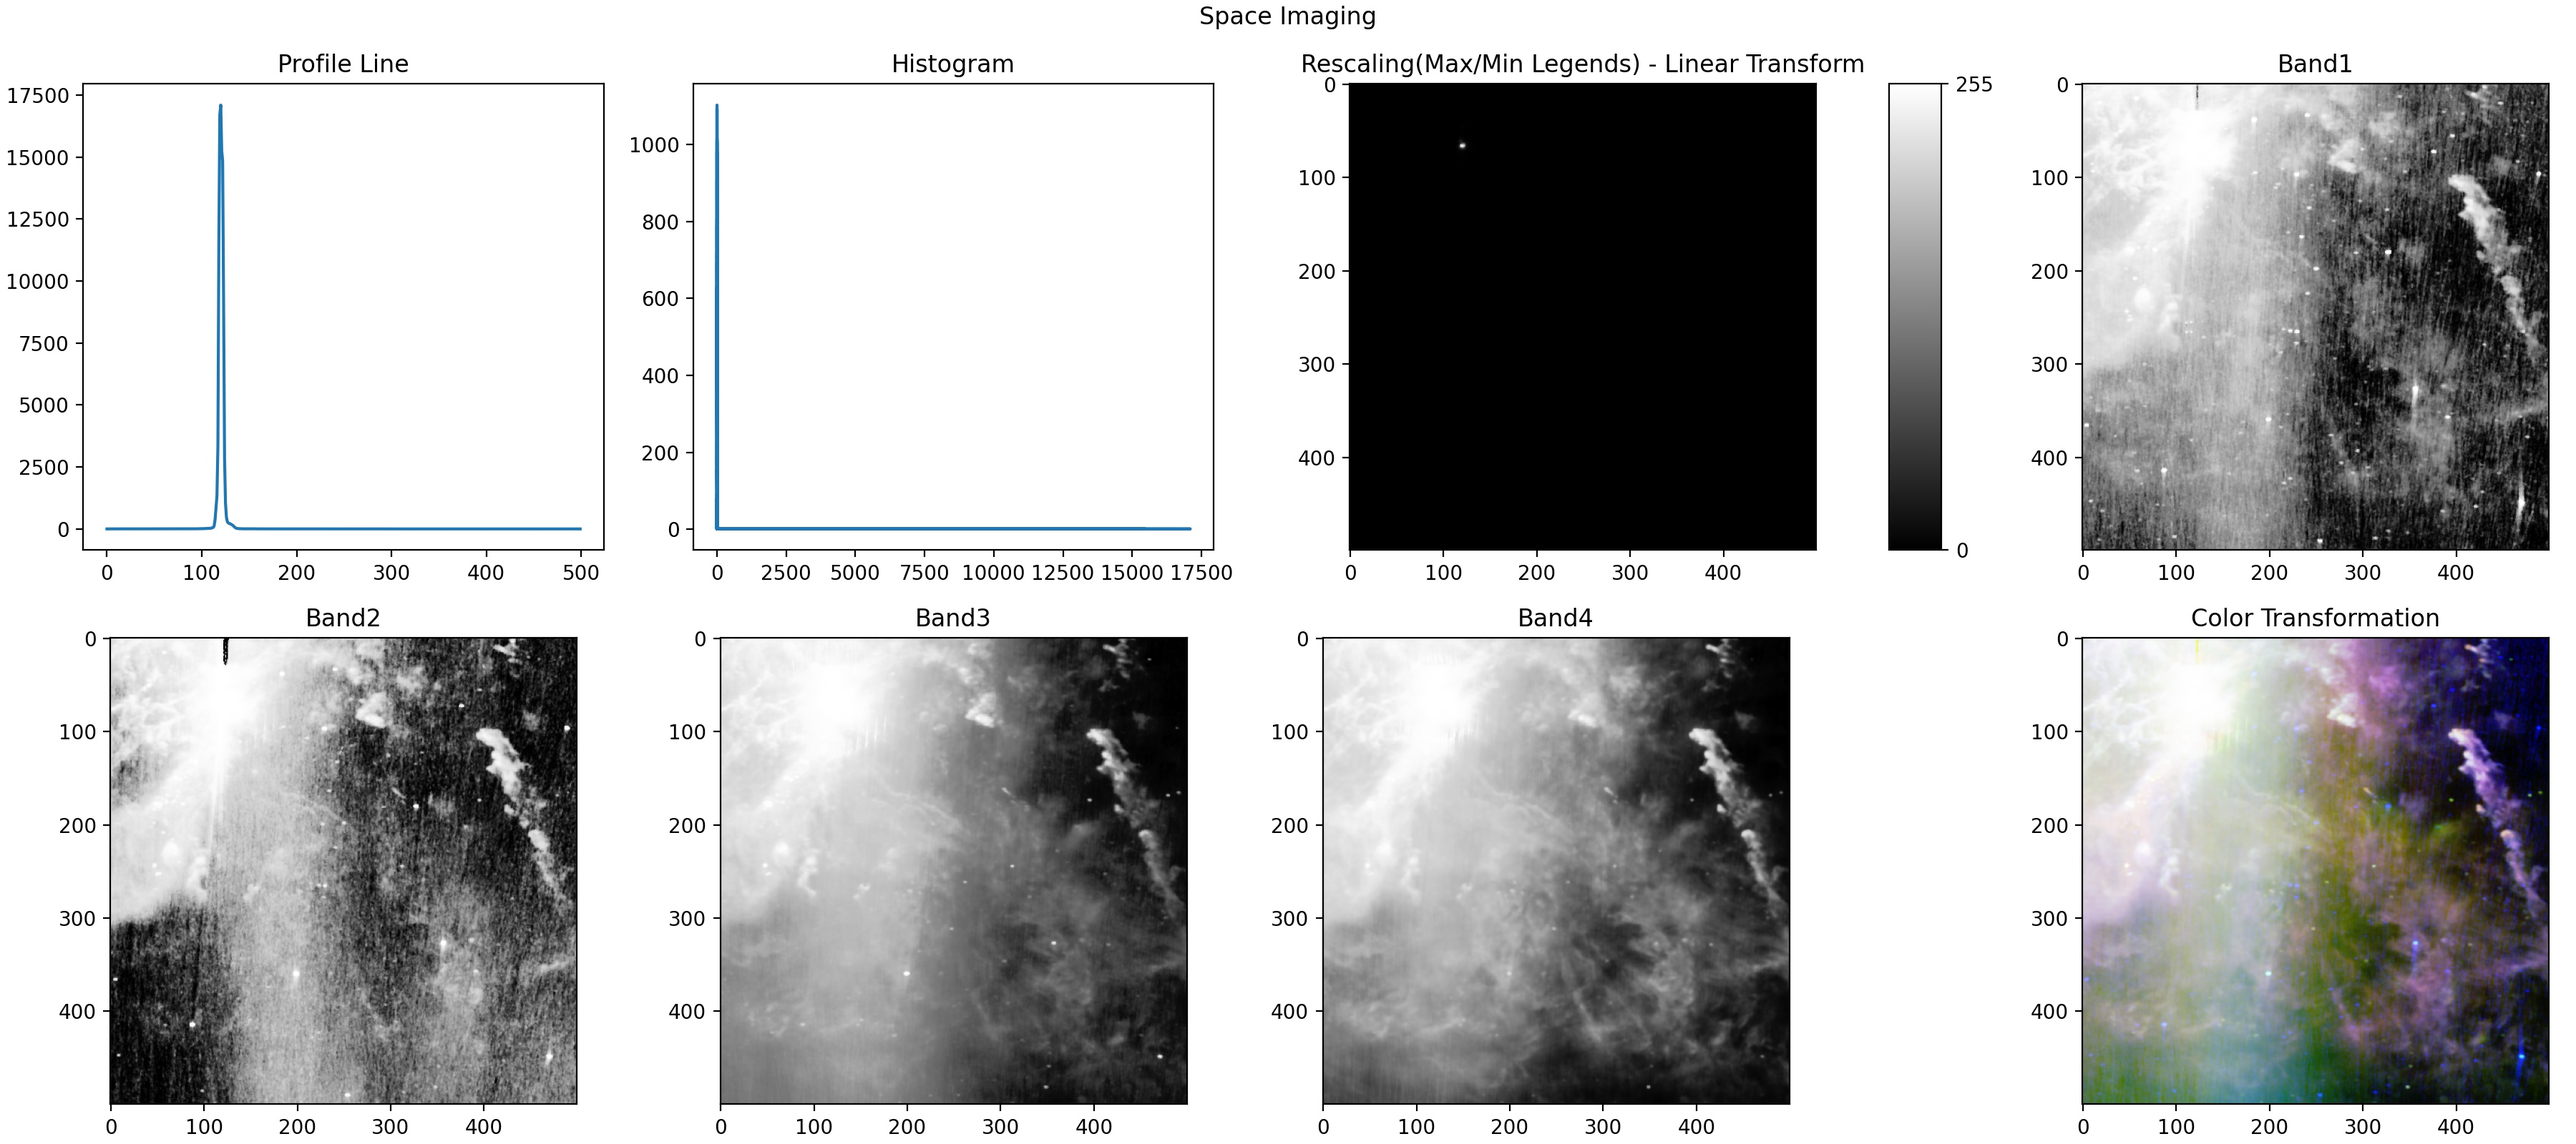
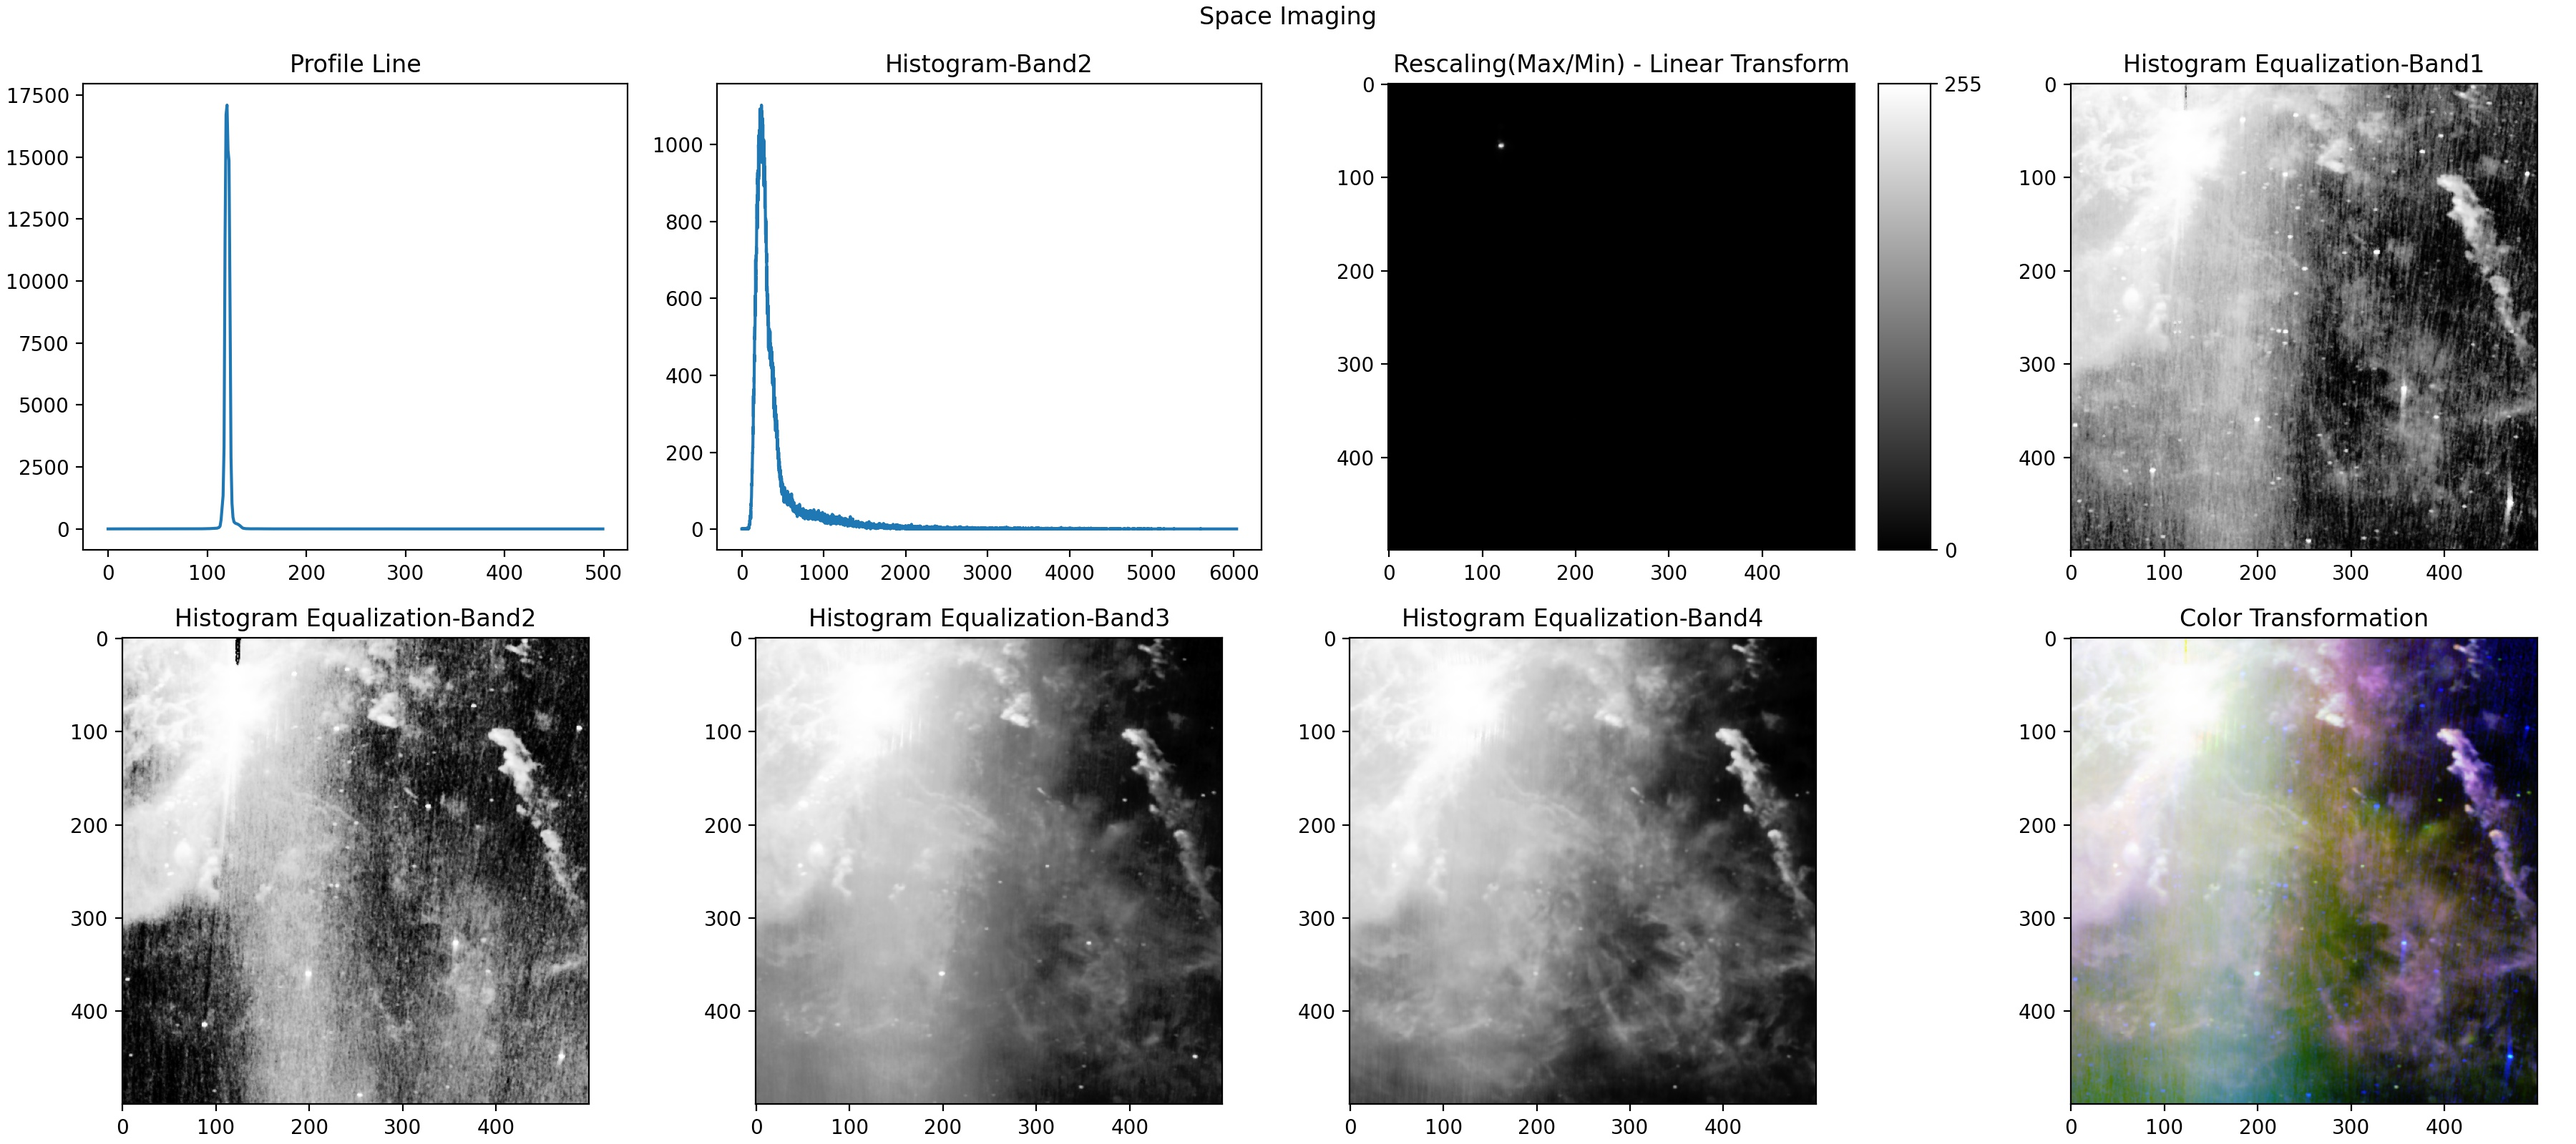
final version 3rd assignment

diff --git a/3rd-assignment/3rd-assignment.py b/3rd-assignment/3rd-assignment.py
@@ -35,15 +35,10 @@ def prof_line_max(data):
 
 
 def histo_line(data):
-    hist = {}
-    for x in range(0, len(data)):
-        for y in range(0, len(data)):
-            i = data[x][y]
-            if i in hist:
-                hist[i] += 1
-            else:
-                hist[i] = 1
+    pixel, count = np.unique(data, return_counts=True)
+    hist = dict(zip(pixel, count))
     return hist
+
 
 def rescale_val(data):
     i_max = max_val(data)
@@ -58,17 +53,10 @@ def rescale_val(data):
 
 def histo_eq(data, rscale):
     maxval = rscale
-    val = {}
+    val = histo_line(data)
     cdf = {}
     sum = 0
     h_equ = np.zeros([len(data), len(data)])
-    for x in range(0, len(data)):
-        for y in range(0, len(data)):
-            i = data[x][y]
-            if i in val:
-                val[i] += 1
-            else:
-                val[i] = 1
     for q, p in sorted(val.items()):
         pr = p/(500*500)
         sum += pr
@@ -99,19 +87,19 @@ def visual(band1, band2, band3, band4):
     fig, axs = plt.subplots(2, 4, figsize=(18, 8), constrained_layout=True)
     axs[0, 0].plot(prof_line_max(band2))
     axs[0, 0].set_title('Profile Line')
-    axs[0, 1].plot(list(histo_line(band2).keys()), list(histo_line(band2).values()))
-    axs[0, 1].set_title('Histogram')
+    axs[0, 1].plot(list(histo_line(band2).values()))
+    axs[0, 1].set_title('Histogram-Band2')
     axss = axs[0, 2].imshow(rescale_val(band2), 'gray')
-    axs[0, 2].set_title('Rescaling(Max/Min Legends) - Linear Transform')
+    axs[0, 2].set_title('Rescaling(Max/Min) - Linear Transform')
     fig.colorbar(axss, ax=axs[0, 2], ticks=[np.min(rescale_val(band2)), np.max(rescale_val(band2))])
     axs[0, 3].imshow(histo_eq(band1, max_val(band1)), 'gray')
-    axs[0, 3].set_title('Band1')
+    axs[0, 3].set_title('Histogram Equalization-Band1')
     axs[1, 0].imshow(histo_eq(band2, max_val(band2)), 'gray')
-    axs[1, 0].set_title('Band2')
+    axs[1, 0].set_title('Histogram Equalization-Band2')
     axs[1, 1].imshow(histo_eq(band3, max_val(band3)), 'gray')
-    axs[1, 1].set_title('Band3')
+    axs[1, 1].set_title('Histogram Equalization-Band3')
     axs[1, 2].imshow(histo_eq(band4, max_val(band4)), 'gray')
-    axs[1, 2].set_title('Band4')
+    axs[1, 2].set_title('Histogram Equalization-Band4')
     axs[1, 3].imshow(color_transform(band4, band3, band1))
     axs[1, 3].set_title('Color Transformation')
     fig.suptitle('Space Imaging')
@@ -143,4 +131,3 @@ if __name__ == "__main__":
 
     # ---Plotting --- #
     visual(band1, band2, band3, band4)
-    #histo_line(band2)
